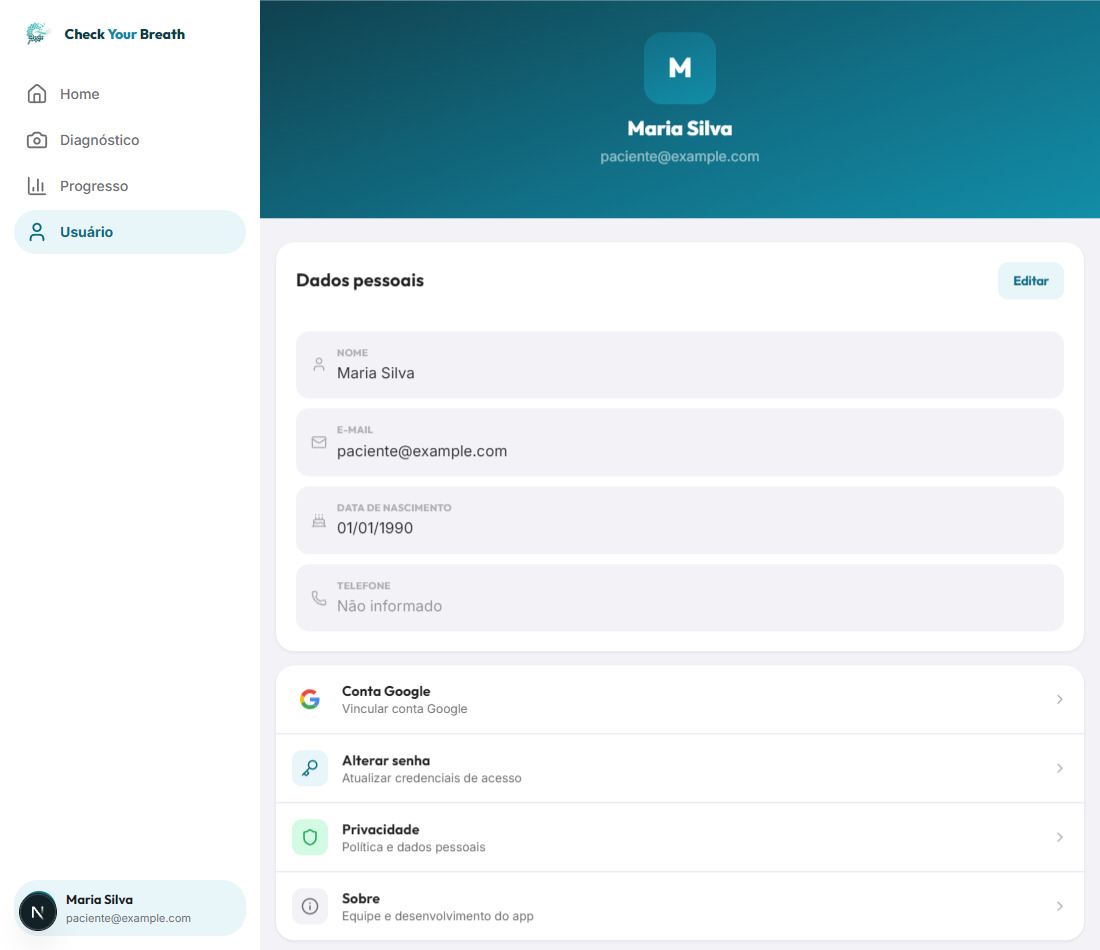
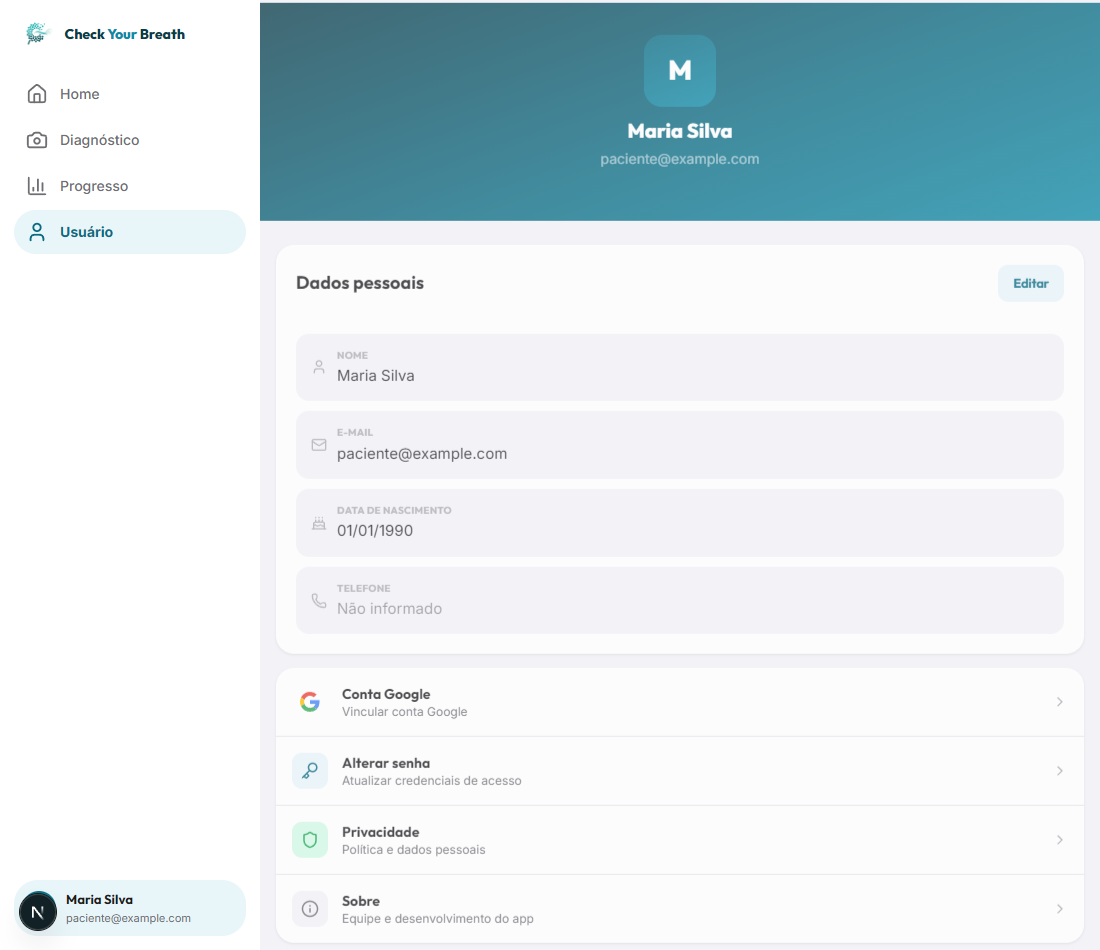
fix: iniciar autorizacao Google em navegacao propria

diff --git a/src/services/auth-service.ts b/src/services/auth-service.ts
@@ -320,7 +320,11 @@ export const authService = {
     return apiClient.get(`${CAMINHO_GOOGLE}/link`);
   },
   async iniciarVinculoGoogle(): Promise<{ url: string }> {
-    return apiClient.post(`${CAMINHO_GOOGLE}/link/start`, {}, { credentials: "include" });
+    const resposta = await apiClient.post<{ state: string }>(`${CAMINHO_GOOGLE}/link/start`, {});
+    if (!/^[A-Za-z0-9_-]{20,128}$/.test(resposta.state)) {
+      throw new Error("Vínculo Google inválido");
+    }
+    return { url: `${config.apiBaseUrl}${CAMINHO_GOOGLE}/link/authorize?state=${resposta.state}` };
   },
   async concluirVinculoGoogle(codigo: string): Promise<void> {
     await apiClient.post(`${CAMINHO_GOOGLE}/link/complete`, { codigo });

diff --git a/src/app/paciente/perfil/page.tsx b/src/app/paciente/perfil/page.tsx
@@ -62,10 +62,7 @@ export default function PerfilPage() {
   const vincularGoogle = useMutation({
     mutationFn: authService.iniciarVinculoGoogle,
     onSuccess: ({ url }) => {
-      const destino = new URL(url);
-      if (destino.origin !== "https://accounts.google.com")
-        throw new Error("Destino Google inválido");
-      window.location.assign(destino.href);
+      window.location.assign(url);
     },
   });
   const sessao = useSessaoAtual();
